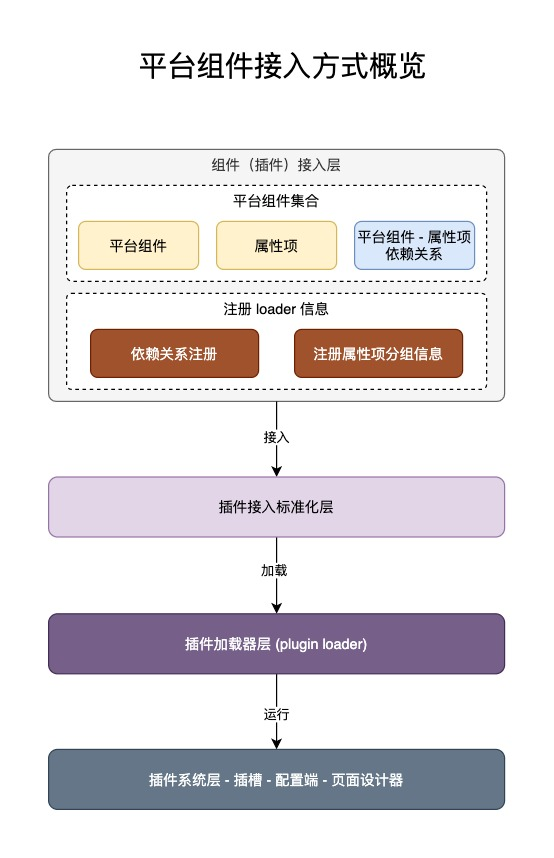
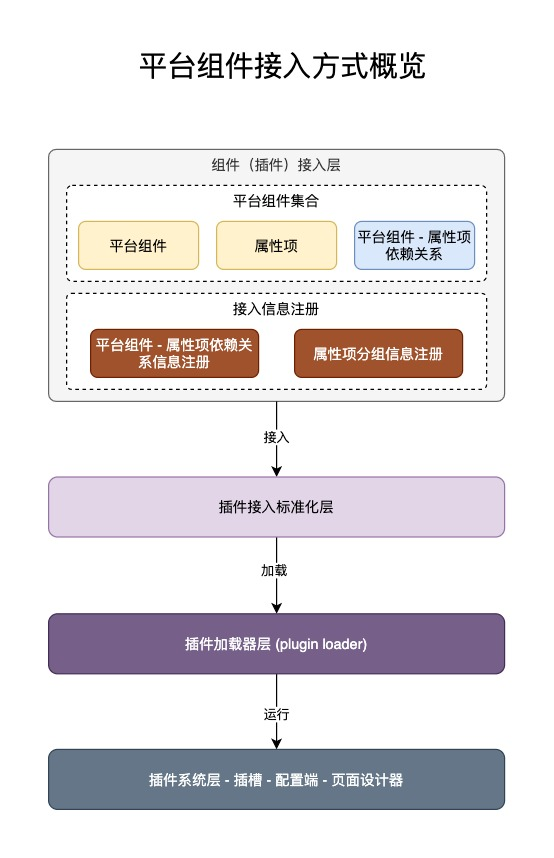
docs: 完善平台组件注册方式

Changed region(s): [[0.1841, 0.3939, 0.4603, 0.4545], [0.5523, 0.3939, 0.7978, 0.4242], [0.3989, 0.3333, 0.583, 0.3939]]

diff --git a/website-doc/sidebars.js b/website-doc/sidebars.js
@@ -43,7 +43,7 @@ module.exports = {
       items: [
         'access/平台组件接入/知识准备',
         'access/平台组件接入/接入指南',
-        'access/平台组件接入/接入事例',
+        'access/平台组件接入/接入示例',
         'access/页面数据结构',
       ],
     },

diff --git a/website-doc/docs/access/平台组件接入/接入指南.md b/website-doc/docs/access/平台组件接入/接入指南.md
@@ -53,12 +53,12 @@ slug: /access_platform_widget
 - `packages/`
   - `platform-widget-hub` 平台组件开发的工作区。
   - `platform-widget-prop-item-hub` 属性项开发的工作区，
-  - `platform-widget-access-prop-rely` 平台组件与属性项的依赖关系，
-  - `platform-widget-access-loader` 平台组件资源加载器，用于加载组件数据。
+  - `platform-widget-access-register` 注册平台组件集合信息。
 
 ### 6.2. 组件接入的扩展目录
 
 - `packages/`
+  - `platform-widget-access-loader` 平台组件资源加载器，用于加载组件数据。
   - `platform-widget-custom-editor-hub` 自定义的平台组件的属性编辑器，当遇到难以扩展的属性项编辑时，预留扩展的。
 
 ---
@@ -73,11 +73,14 @@ slug: /access_platform_widget
    1. 创建属性项工程
    2. 定义属性项元数据描述
    3. 编写属性项编辑的业务逻辑
-3. 建立平台组件 - 属性项的关联关系
-4. 将平台组件和属性项注册到对外提供的服务接口
-   1. 在属性项分组信息中注册属性项引用
-   2. 将组件和属性依赖关系注册到 loader 获取服务中
-5. 检查是否接入成功
+3. 向平台注册平台组件集合信息
+   1. 添加平台组件 - 属性项的关联关系数据
+   2. 注册平台组件信息
+   3. 注册属性项信息
+   4. 注册分组信息
+      1. 组件分组
+      2. 属性项分组
+4. 检查是否接入成功
    1. 启动必要服务
       1. 在本地启动配置前端（[参考](/docs/introduction)）
       2. 在本地启动应用前端，参考同上
@@ -88,7 +91,7 @@ slug: /access_platform_widget
       3. 在左侧的「控件类型」面板查看是否存在接入的组件，如果有，则拖动进入中间的画布区域。
       4. 点击右上方的「预览」按钮，查看应用端是否正常显示。
    3. 如果上述步骤没有问题，则表示接入成功。否则，需要进一步排查错误。
-6. 接入异常排查
+5. 接入异常排查
    1. TODO
 
 > 准备就绪，即将开始
@@ -375,11 +378,25 @@ export * from './spec';
 
 ---
 
-## 10. 建立平台组件 - 属性项的关联关系
+## 10. 向平台注册平台组件集合信息
 
-工作目录： `packages/platform-widget-access-prop-rely`。
+目录结构：
 
-参考：[packages/platform-widget-access-prop-rely/rely-meta/FormInput-meta.ts](https://10.0.4.55/custom-platform-v3-frontend-group/custom-platform-v3-frontend/tree/dev/packages/platform-widget-access-prop-rely/rely-meta/FormInput-meta.ts)
+- `packages/platform-widget-access-register/`
+  - `rely-meta/`
+    - `{组件名-meta}.ts`
+  - `grouping-data`
+    - `prop-items.ts` 属性项的分组信息
+    - `widget.ts` 平台组件分组信息
+  - `refs-prop-item.ts` 属性项注册信息
+  - `refs-widget.ts` 平台组件注册信息
+  - `refs-custom-editor.ts`自定义编辑器组件注册信息
+
+### 10.1. 添加平台组件 - 属性项的关联关系数据
+
+在 `packages/platform-widget-access-register/rely-meta` 文件中创建「平台组件 - 属性项的依赖关系数据」：
+
+参考：[packages/platform-widget-access-register/rely-meta/FormInput-meta.ts](https://10.0.4.55/custom-platform-v3-frontend-group/custom-platform-v3-frontend/tree/dev/packages/platform-widget-access-register/rely-meta/FormInput-meta.ts)
 
 ```tsx
 import { CreateWidgetPropItemRely } from "@platform-widget-access/spec";
@@ -402,37 +419,69 @@ export const DropdownSelectorMeta = CreateWidgetPropItemRely({
         },
       },
       { propID: 'prop_field' },
-      // { propID: 'prop_flex_config' },
     ]
   }
 });
 ```
 
----
+### 10.2. 注册平台组件信息
 
-## 11. 将平台组件和属性项注册到对外提供的服务接口
-
-工作目录： `packages/platform-widget-access-loader`。
-
-### 11.1. 注册到组件 `loader`
-
-`platform-widget-access-loader/refs-widget.ts`
+`platform-widget-access-register/refs-widget.ts`
 
 ```ts
 export * from '@platform-widget-prop-item/{xxx组件目录名}';
 ```
 
-### 11.2. 注册到属性项 `loader`
+### 10.3. 注册属性项信息
 
-`platform-widget-access-loader/refs-prop-item.ts`
+`platform-widget-access-register/refs-prop-item.ts`
 
 ```ts
 export * from '@platform-widget-prop-item/{yyy属性项目录名}';
 ```
 
-### 11.3. 在属性项分组信息中注册属性项引用
+### 10.4. 注册分组信息
 
-`packages/platform-widget-access-loader/services/prop-grouping.ts`
+#### 10.4.1. 组件分组
+
+`packages/platform-widget-access-register/grouping-data/widget.ts`
+
+```ts
+export const widgetPanelData: GroupPanelData = {
+  title: '控件类型',
+  type: 'dragableItems',
+  itemsGroups: [
+    {
+      title: '通用',
+      type: '',
+      items: [
+      ]
+    },
+    {
+      title: '表单控件',
+      type: '',
+      items: [
+      ]
+    },
+    {
+      title: '表格控件',
+      type: '',
+      items: [
+      ]
+    },
+    {
+      title: '布局控件',
+      type: '',
+      items: [
+      ]
+    },
+  ]
+};
+```
+
+#### 10.4.2. 属性项分组
+
+`packages/platform-widget-access-register/grouping-data/prop-items.ts`
 
 ```ts
 export const propItemGroupingData: GroupPanelData[] = [
@@ -481,19 +530,5 @@ export const propItemGroupingData: GroupPanelData[] = [
       },
     ]
   },
-];
-```
-
-### 11.4. 将组件和属性依赖关系注册到 loader 获取服务中
-
-编辑 `packages/platform-widget-access-loader/services/get-widget-rely-meta.ts`
-
-```ts
-import {
-  Widget, // 从这里导入
-} from "@platform-widget-access/prop-item-rely";
-
-const tempArr = [
-  Widget // 从这里导出
 ];
 ```

diff --git a/website-doc/docs/access/平台组件接入/接入示例.md b/website-doc/docs/access/平台组件接入/接入示例.md
@@ -1,5 +1,5 @@
 ---
-title: 平台组件接入事例
+title: 平台组件接入示例
 ---
 
 ## 12. 例子
